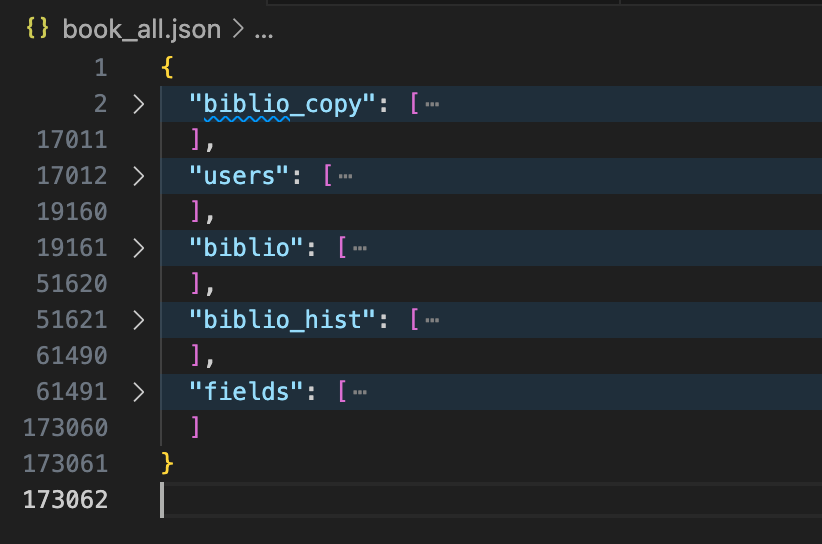
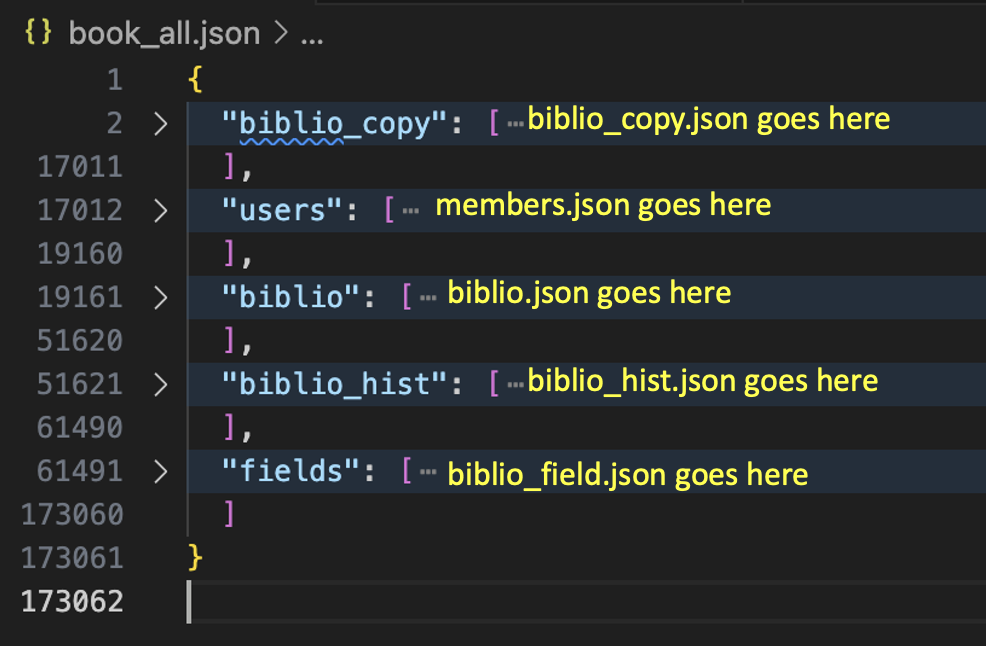
updated docs

Changed region(s): [[0.0, 0.0312, 1.0, 0.9688], [0.0304, 0.375, 0.1521, 0.4062], [0.3041, 0.0625, 0.3345, 0.0938]]

diff --git a/doc/OpenBiblioImport.md b/doc/OpenBiblioImport.md
@@ -114,16 +114,36 @@ podman cp ./input/usmarc_tag_dm.frm mysql-server-db:/var/lib/mysql/openbiblio
 
 - Change the ownership of the files to `mysql` instead of `root`: `podman exec -it mysql-server-db /bin/bash` and `chown mysql /var/lib/mysql/openbiblio/*`
 
-- Export the following tables as json, sort them by date `create_dt`: `member`, `biblio_status_hist`, `biblio`, `biblio_field`, `biblio_copy`. Copy them together in `book_all.json` (this is a bit tedious). It is important to sort by date (oldest first), because the history of rentals needs to be in the correct order. 
-
-- Export the `member` table into `member.json`
-
-![book_all.json Structure](./openbiblio_import_structure.png)
+- Export the following tables as json, sort them by date `create_dt`: `member`, `biblio_status_hist`, `biblio`, `biblio_field`, `biblio_copy` into the respective file names e.g. `member.json` etc. It is important to sort by date (oldest first), because the history of rentals needs to be in the correct order.
 
 *IMPORTANT* don't click on export, first do the sorted SQL query and then export the query result as json. For example, the member export has the query `SELECT * FROM member ORDER BY member.create_dt ASC`
 
 
 ![phpMyAdmin Database Export](./openbiblio_sql_export.png)
+
+- All files start with a json array with brackets, e.g. like this
+```
+[
+  {
+    "type": "header",
+    "version": "5.2.1",
+    "comment": "Export to JSON plugin for PHPMyAdmin"
+  },
+  { "type": "database", "name": "openbiblio" },
+  ...
+```
+
+- Copy them together in `book_all.json`. this is a bit tedious and best done in vscode or alike. So each key contains the content for each file, here is an example:
+
+![book_all.json Structure](./openbiblio_import_structure.png)
+
+- You can validate the json as valid e.g. using a [validator](https://jsonformatter.curiousconcept.com/)
+
+- Export the `member` table into `member.json`
+
+
+
+
 
 - In openlibry delete the database file `dev.db` and the `migrations` folder if it exists. Then recreate them with `npx prisma migrate dev --name init`
 
